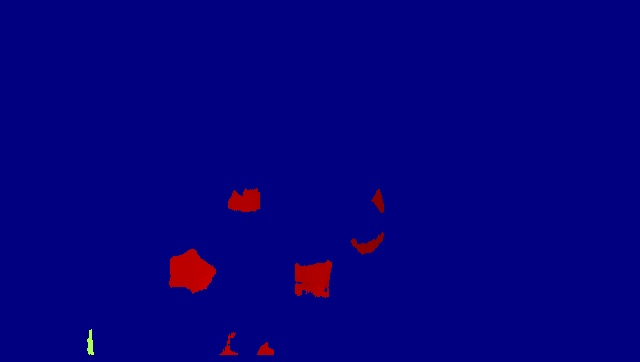
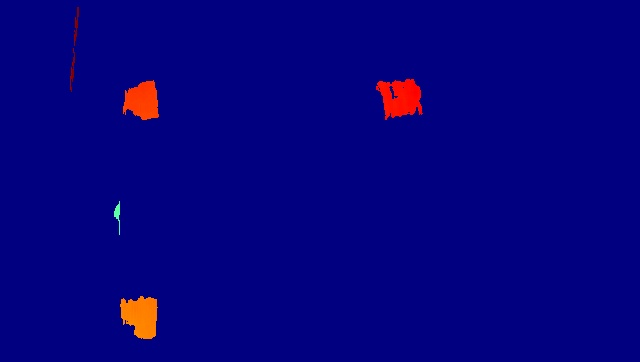
fix all bugs with appearance/start part with color finder

diff --git a/GUI/interface.py b/GUI/interface.py
@@ -4,8 +4,8 @@ import glob
 import sys, traceback
 import subprocess
 import math
-# import picamera
-# from picamera import PiCamera
+import picamera
+from picamera import PiCamera
 import numpy as np
 import string
 import imutils
@@ -45,23 +45,23 @@ class Interface(baseInterface):
 		self.cam_width = 2560
 		self.cam_height = 720
 		# Final image capture settings
-		# scale_ratio = 1
+		scale_ratio = 1
 		# # Camera resolution height must be dividable by 16, and width by 32
-		# cam_width = int((self.cam_width+31)/32)*32
-		# cam_height = int((self.cam_height+15)/16)*16
-		# print ("Camera resolution: "+str(cam_width)+" x "+str(cam_height))
+		cam_width = int((self.cam_width+31)/32)*32
+		cam_height = int((self.cam_height+15)/16)*16
+		print ("Camera resolution: "+str(cam_width)+" x "+str(cam_height))
 
 		# # Buffer for captured image settings
-		# self.img_width = int (cam_width * scale_ratio)
-		# self.img_height = int (cam_height * scale_ratio)
-		# self.capture = np.zeros((self.img_height, self.img_width, 4), dtype=np.uint8)
-		# print ("Scaled image resolution: "+str(self.img_width)+" x "+str(self.img_height))
+		self.img_width = int (cam_width * scale_ratio)
+		self.img_height = int (cam_height * scale_ratio)
+		self.capture = np.zeros((self.img_height, self.img_width, 4), dtype=np.uint8)
+		print ("Scaled image resolution: "+str(self.img_width)+" x "+str(self.img_height))
 
 		# # Initialize the camera
-		# self.camera = PiCamera(stereo_mode='side-by-side',stereo_decimate=False)
-		# self.camera.resolution=(cam_width, cam_height)
-		# self.camera.framerate = 20
-		# self.camera.hflip = True
+		self.camera = PiCamera(stereo_mode='side-by-side',stereo_decimate=False)
+		self.camera.resolution=(cam_width, cam_height)
+		self.camera.framerate = 20
+		self.camera.hflip = True
 		#self.vs = PiVideoStream(resolution=(self.cam_width,self.cam_height)).start()
 
 		# Создаем словарь параметров для настройки карты глубины,
@@ -102,21 +102,21 @@ class Interface(baseInterface):
 			[self.sg.Image(filename='', key='image')],
 			# Далее идут слайдеры параметров для настройки выходной карты глубин
 			[self.sg.Frame('Settings',[
-			[self.sg.Text("SpklWinSze"), self.sg.Slider(range=(0, 300), orientation='h', size=(34, 10), default_value=self.parameters["SpklWinSze"])],
-			[self.sg.Text("SpcklRng"), self.sg.Slider(range=(0, 40), orientation='h', size=(34, 10), default_value=self.parameters["SpcklRng"])],
-			[self.sg.Text("UnicRatio"), self.sg.Slider(range=(1, 80), orientation='h', size=(34, 10), default_value=self.parameters["UnicRatio"])],
+			[self.sg.Text("SpklWinSze "), self.sg.Slider(range=(0, 300), orientation='h', size=(34, 10), default_value=self.parameters["SpklWinSze"])],
+			[self.sg.Text("SpcklRng   "), self.sg.Slider(range=(0, 40), orientation='h', size=(34, 10), default_value=self.parameters["SpcklRng"])],
+			[self.sg.Text("UnicRatio  "), self.sg.Slider(range=(1, 80), orientation='h', size=(34, 10), default_value=self.parameters["UnicRatio"])],
 			[self.sg.Text("TxtrThrshld"), self.sg.Slider(range=(0, 1000), orientation='h', size=(34, 10), default_value=self.parameters["TxtrThrshld"])],
-			[self.sg.Text("NumOfDisp"), self.sg.Slider(range=(16, 256), orientation='h', size=(34, 10), default_value=self.parameters["NumOfDisp"])],
-			[self.sg.Text("MinDISP"), self.sg.Slider(range=(-300, 300), orientation='h', size=(34, 10), default_value=self.parameters["MinDISP"])],
-			[self.sg.Text("PreFiltCap"), self.sg.Slider(range=(5, 63), orientation='h', size=(34, 10), default_value=self.parameters["PreFiltCap"])],
-			[self.sg.Text("PFS"), self.sg.Slider(range=(5, 255), orientation='h', size=(34, 10), default_value=self.parameters["PFS"])],
+			[self.sg.Text("NumOfDisp  "), self.sg.Slider(range=(16, 256), orientation='h', size=(34, 10), default_value=self.parameters["NumOfDisp"])],
+			[self.sg.Text("MinDISP    "), self.sg.Slider(range=(-300, 300), orientation='h', size=(34, 10), default_value=self.parameters["MinDISP"])],
+			[self.sg.Text("PreFiltCap "), self.sg.Slider(range=(5, 63), orientation='h', size=(34, 10), default_value=self.parameters["PreFiltCap"])],
+			[self.sg.Text("PFS        "), self.sg.Slider(range=(5, 255), orientation='h', size=(34, 10), default_value=self.parameters["PFS"])],
 			#[self.sg.Text("SWS"), self.sg.Slider(range=(5, 255), orientation='h', size=(34, 10), default_value=5)]
 			[self.sg.Button("save settings", size=(10,1))]
 			])],
 			# button for create map of disparity
 			[self.sg.Button('create map', size=(15,2)),
 			# Кнопка по которой вычисляются размеры найденных граней
-			self.sg.Button('find length', size=(15,2)),
+			self.sg.Button('find distances', size=(15,2)),
 			# Кнопка котороя показывает следующее изображение
 			#self.sg.Button('Next Picture ->', size=(15,2))
 			# Кнопка котороя delete lines
@@ -139,8 +139,8 @@ class Interface(baseInterface):
 					drag_submits=True # mouse drag events]
 					)],
 			# Вывод всей важной информации происходит здесь
-			[self.sg.Output(size=(64, 12), key = '_output_')],
-			[self.sg.Button('lineFinder Settings', size=(15,2)), self.sg.Button('find lines', size=(15,2))]
+			[self.sg.Output(size=(64, 21), key = '_output_')],
+			[self.sg.Button('lineFinder Settings', size=(15,2)), self.sg.Button('auto-lineFinder', size=(15,2))]
 			
 		]
 
@@ -172,12 +172,13 @@ class Interface(baseInterface):
 		gray = cv2.cvtColor(image, cv2.COLOR_BGR2GRAY)
 		height, width = gray.shape
 		mask = np.zeros((height,width))
-		cv2.rectangle(mask, (80,140), (460,355), 255, -1)
+		cv2.rectangle(mask, (100,60), (460,355), 255, -1)
 		#masked_data = cv2.bitwise_and(gray, gray, mask=mask)
 		gray[mask < 255] = 0
 		hsv_frame[mask < 255] = 0
 		mask_frame = cv2.inRange(hsv_frame, hsv_min, hsv_max)
 		#img = image[140:355, 80:460]
+		second_inRange = cv2.inRange(image, np.array([0,0,0]), np.array([16,50,255]))
 		
 		#gray = image
 		blurred = cv2.GaussianBlur(mask_frame, (5, 5), 0)
@@ -218,6 +219,7 @@ class Interface(baseInterface):
 			#print(f"recr = {box}")
 			#-------------------------
 			
+			print(f"object {j+1}:")
 			cv2.putText(image, str(self.letter_dict[j]*mul_coef)+str(1), (int(box[0][0] + (box[1][0] - box[0][0])/2),int(box[0][1] + (box[1][1] - box[0][1])/2) ), fontFace=cv2.FONT_HERSHEY_SIMPLEX,
 			fontScale=0.5, color=(255,255,255))
 			self.secondWindow.auto_lines.append([box[0],box[1]])
@@ -247,13 +249,13 @@ class Interface(baseInterface):
 	# Основная функция в котором работает наше окно
 	def run(self):
 		# Двойное изображение
-		imageToDisp = self.imageToDisp[self.index]
+		#imageToDisp = self.imageToDisp[self.index]
 
 		
 
 		# Калибровка и разделение изображений на левое и правое
-		imgL, imgR = calibrate_two_images(imageToDisp)
-		rectified_pair = (imgL, imgR)
+		# ~ imgL, imgR = calibrate_two_images(imageToDisp)
+		# ~ rectified_pair = (imgL, imgR)
 
 		# Флаг для перерисовывания графа(для возможности рисовать на нем)
 		a_id = None
@@ -269,8 +271,8 @@ class Interface(baseInterface):
 		
 
 		# The PSG "Event Loop"
-		#for frame in self.camera.capture_continuous(self.capture, format="bgra", use_video_port=True, resize=(self.cam_width,self.cam_height)):                     
-		while True:
+		for frame in self.camera.capture_continuous(self.capture, format="bgra", use_video_port=True, resize=(self.cam_width,self.cam_height)):                     
+		#while True:
 			event, values = self.window.Read(timeout=20, timeout_key='timeout')      # get events for the window with 20ms max wait
 
 			if event is None or event == self.sg.WIN_CLOSED or event == 'Cancel':  
@@ -278,7 +280,7 @@ class Interface(baseInterface):
 
 			#imageToDisp = self.vs.read()
 			
-			#imageToDisp = frame
+			imageToDisp = frame
 			#imgLeft = frame [0:362,0:640]
 			#print(f"frame = {imageToDisp.shape}")
 			#leftI = frame[0:720, 0:1280]
@@ -293,8 +295,8 @@ class Interface(baseInterface):
 
 				#disparity, value_disparity = self.deepMap_updater(imageToDisp, values)
 				
-				if event == 'find lines':
-
+				if event == 'auto-lineFinder':
+					self.window.FindElement("_output_").Update('')
 					try:
 						disparity, value_disparity = self.deepMap_updater(imageToDisp, values)
 						disparity = self.lineFinder(disparity)
@@ -308,7 +310,7 @@ class Interface(baseInterface):
 				# Перерисовка графа
 				if a_id:
 					graph.DeleteFigure(a_id)
-				a_id = graph.DrawImage(data=cv2.imencode('.png', disparity)[1].tobytes(), location=(0, 400))
+				a_id = graph.DrawImage(data=cv2.imencode('.png', disparity)[1].tobytes(), location=(0, 362))
 				# Рисовние линий
 				for i,line in enumerate(lines):
 					if line[0] is not None and line[1] is not None:
@@ -398,14 +400,14 @@ class Interface(baseInterface):
 			
 			if event == 'create map':
 				disparity, value_disparity = self.deepMap_updater(imageToDisp, values)
-				self.secondWindow.auto_lines = []
-				lines = []
+				#self.secondWindow.auto_lines = []
+				#lines = []
 				self.window.FindElement("_output_").Update('')
 				print("Deep map is created.")
 
 			# Нажатие на кнопку "Вычислить", которая должна вернуть 
 			# наименования граней и их размеры(Для линий которые мы сами нарисовали).
-			if event == 'find length':
+			if event == 'find distances':
 				try:
 					if len(lines) == 0 and len(self.secondWindow.auto_lines) == 0:
 						self.window.FindElement("_output_").Update('')
@@ -439,7 +441,7 @@ class Interface(baseInterface):
 							line_size = self.straight_determine_line(line)
 							print(f"{self.letter_dict[i]} : {round(line_size,2)} mm")
 				except:
-					print("find length dont work")
+					print("'find distances' dont work")
 					print(traceback.format_exc())
 
 	def deepMap_updater(self,imageToDisp, values):

diff --git a/GUI/autoDetectRectWin.py b/GUI/autoDetectRectWin.py
@@ -46,6 +46,7 @@ class autoDetectRectWin(baseInterface):
 		window = self.sg.Window(self.TextForApp, layout)
 		self.auto_lines = []
 		hsv_frame = cv2.cvtColor(image, cv2.COLOR_BGR2HSV)
+		second_inRange = cv2.inRange(image, np.array([0,0,0]), np.array([16,50,255]))
 		
 		while True:
 			event, values = window.read(timeout=200)
@@ -77,8 +78,12 @@ class autoDetectRectWin(baseInterface):
 			gray = cv2.cvtColor(image, cv2.COLOR_BGR2GRAY)
 			height, width = gray.shape
 			mask = np.zeros((height,width))
-			cv2.rectangle(mask, (80,140), (460,355), 255, -1)
+			cv2.rectangle(mask, (100,60), (460,355), 255, -1)
 			#masked_data = cv2.bitwise_and(gray, gray, mask=mask)
+			
+			#output = cv2.bitwise_and(image, image, mask = second_inRange)
+			#output = cv2.cvtColor(output, cv2.COLOR_RGB2GRAY)
+			
 			gray[mask < 255] = 0
 			hsv_frame[mask < 255] = 0
 			mask_frame = cv2.inRange(hsv_frame, hsv_min, hsv_max)
@@ -95,7 +100,7 @@ class autoDetectRectWin(baseInterface):
 			ratio =1
 			boxes = []
 			if event == 'save settings':
-				save_scv("db/secondWin.csv", self.secondWin_parameters)
+				save_csv("db/secondWin.csv", self.secondWin_parameters)
 
 			#img = cv2.cvtColor(image, cv2.COLOR_GRAY2BGR)
 			cX = 0
@@ -113,7 +118,7 @@ class autoDetectRectWin(baseInterface):
 				c *= ratio
 				c = c.astype("int")
 				contour_area = cv2.contourArea(c)
-				if contour_area < 190 or contour_area > 2400:
+				if contour_area < 500 or contour_area > 2400:
 					continue
 				#print(f"{i} : area = {contour_area}")
 				peri = cv2.arcLength(c, True)
@@ -142,8 +147,8 @@ class autoDetectRectWin(baseInterface):
 			
 
 			window.FindElement('cube_image').Update(data=cv2.imencode('.png', image)[1].tobytes())
-			window.FindElement('mask_contor_image').Update(data=cv2.imencode('.png', gray)[1].tobytes())
-			window.FindElement('hsv_image').Update(data=cv2.imencode('.png', mask_frame)[1].tobytes())
+			window.FindElement('mask_contor_image').Update(data=cv2.imencode('.png', thresh)[1].tobytes())
+			window.FindElement('hsv_image').Update(data=cv2.imencode('.png', second_inRange)[1].tobytes())
 
 		window.close()
 

diff --git a/determine_object_helper.py b/determine_object_helper.py
@@ -52,9 +52,9 @@ def calibrate_two_images(imageToDisp, photoDim=None, imageDim=None):
 
 	# Cчитываем стерео-изображение
 	# if we from PiCamera
-	#pair_img = cv2.cvtColor(imageToDisp,cv2.COLOR_BGR2GRAY)
+	pair_img = cv2.cvtColor(imageToDisp,cv2.COLOR_BGR2GRAY)
 	# If we from pictures
-	pair_img = cv2.imread(imageToDisp,0)
+	#pair_img = cv2.imread(imageToDisp,0)
 
 	# Разделяем на левое и правое
 	imgLeft = pair_img [0:photo_height,0:image_width] #Y+H and X+W
@@ -129,9 +129,15 @@ def stereo_depth_map(rectified_pair, parameters, ifsave=True):
 	#print(f"min = {local_min},max = {local_max}")
 	# print ("MAX " + str(local_max))
 	# print ("MIN " + str(local_min))
-	disparity_visual = (disparity-local_min)*(1.0/(local_max-local_min))
+	disparity_visual = (disparity-local_min)*(1.0/0.00000001)
+	if (local_max-local_min) != 0:
+		disparity_visual = (disparity-local_min)*(1.0/(local_max-local_min))
+	disparity_grayscale = (disparity-local_min)*(65535.0/0.00000001)
 	if ifsave:
-		disparity_grayscale = (disparity-local_min)*(65535.0/(local_max-local_min))
+		if (local_max-local_min) != 0:
+			disparity_grayscale = (disparity-local_min)*(65535.0/(local_max-local_min))
+		else:
+			disparity_grayscale = (disparity-local_min)*(65535.0/0.000000000001)
 		#disparity_grayscale = (disparity+208)*(65535.0/1000.0) # test for jumping colors prevention 
 		disparity_fixtype = cv2.convertScaleAbs(disparity_grayscale, alpha=(255.0/65535.0))
 		disparity_color = cv2.applyColorMap(disparity_fixtype, cv2.COLORMAP_JET)

diff --git a/find_color_test.py b/find_color_test.py
@@ -1,0 +1,40 @@
+import cv2
+import numpy as np
+
+image = cv2.imread("fulldisp.jpg")
+gray = cv2.cvtColor(image, cv2.COLOR_RGB2GRAY)
+
+boundaries= [
+		#([17,15,100], [50,56,200]),
+		([15,17,100],[56,50,200]),
+		([86,31,4],[220,88,50]),
+		([25,146,190],[62,174,250]),
+		([103,86,65],[145,133,128]),
+		([8,0,0],[255,4,4])
+]
+
+i=0
+for (lower, upper) in boundaries:
+	lower = np.array(lower, dtype = "uint8")
+	upper = np.array(upper, dtype = "uint8")
+	
+	# find the colors with specified boundaries and apply the mask
+	mask = cv2.inRange(image, lower,upper)
+	height,width,_ = image.shape
+	black_img = np.zeros((height,width))
+	
+	second_inRange = cv2.inRange(image, np.array([0,0,0]), np.array([8,8,255]))
+	
+	output = cv2.bitwise_and(image, image, mask = second_inRange)
+	output[output>0] = 255
+	#gray[mask>0] = 0
+	#gray[mask==0] = 255
+	#image[image<255] = 0
+	print(image[313,190])
+	print(f"i={i} ; lower = {lower}, upper = {upper}")
+	
+	cv2.imshow("gray", gray)
+	cv2.imshow("second", mask)
+	cv2.imshow('images', np.hstack([image,output]))
+	cv2.waitKey(0)
+	i=i+1

diff --git a/FPS_test.py b/FPS_test.py
@@ -35,21 +35,21 @@ class PiVideoStream:
 	def stop(self):
 		self.stopped = True
 		
-def main():
-	vs = PiVideoStream().start()
-	time.sleep(2.0)
+# ~ def main():
+	# ~ vs = PiVideoStream().start()
+	# ~ time.sleep(2.0)
 
-	while True:
-		frame = vs.read()
-		print(f"frame size = {frame.shape}")
-		cv2.imshow("Frame", frame)
-		key = cv2.waitKey(1)
+	# ~ while True:
+		# ~ frame = vs.read()
+		# ~ print(f"frame size = {frame.shape}")
+		# ~ cv2.imshow("Frame", frame)
+		# ~ key = cv2.waitKey(1)
 		
-		if key & 0xFF == ord('q'):
-			break
+		# ~ if key & 0xFF == ord('q'):
+			# ~ break
 
-	cv2.destroyAllWindows()
-	vs.stop()
+	# ~ cv2.destroyAllWindows()
+	# ~ vs.stop()
 
-if __name__ == '__main__':
-	main()
+# ~ if __name__ == '__main__':
+	# ~ main()

diff --git a/GUI/tools_for_intaface.py b/GUI/tools_for_intaface.py
@@ -9,7 +9,7 @@ def read_csv(file_name):
 
 	return parameters
 
-def save_scv(file_name, parameters):
+def save_csv(file_name, parameters):
 	with open(file_name,"w") as f:
 		w = csv.writer(f)
 		for key, val in parameters.items():

diff --git a/main.py b/main.py
@@ -1,4 +1,4 @@
-from GUI.interface_no_pi import Interface
+from GUI.interface import Interface
 
 def main():
 	interbox = Interface("DarkAmber", 'Demo Determine Line Lenght')
